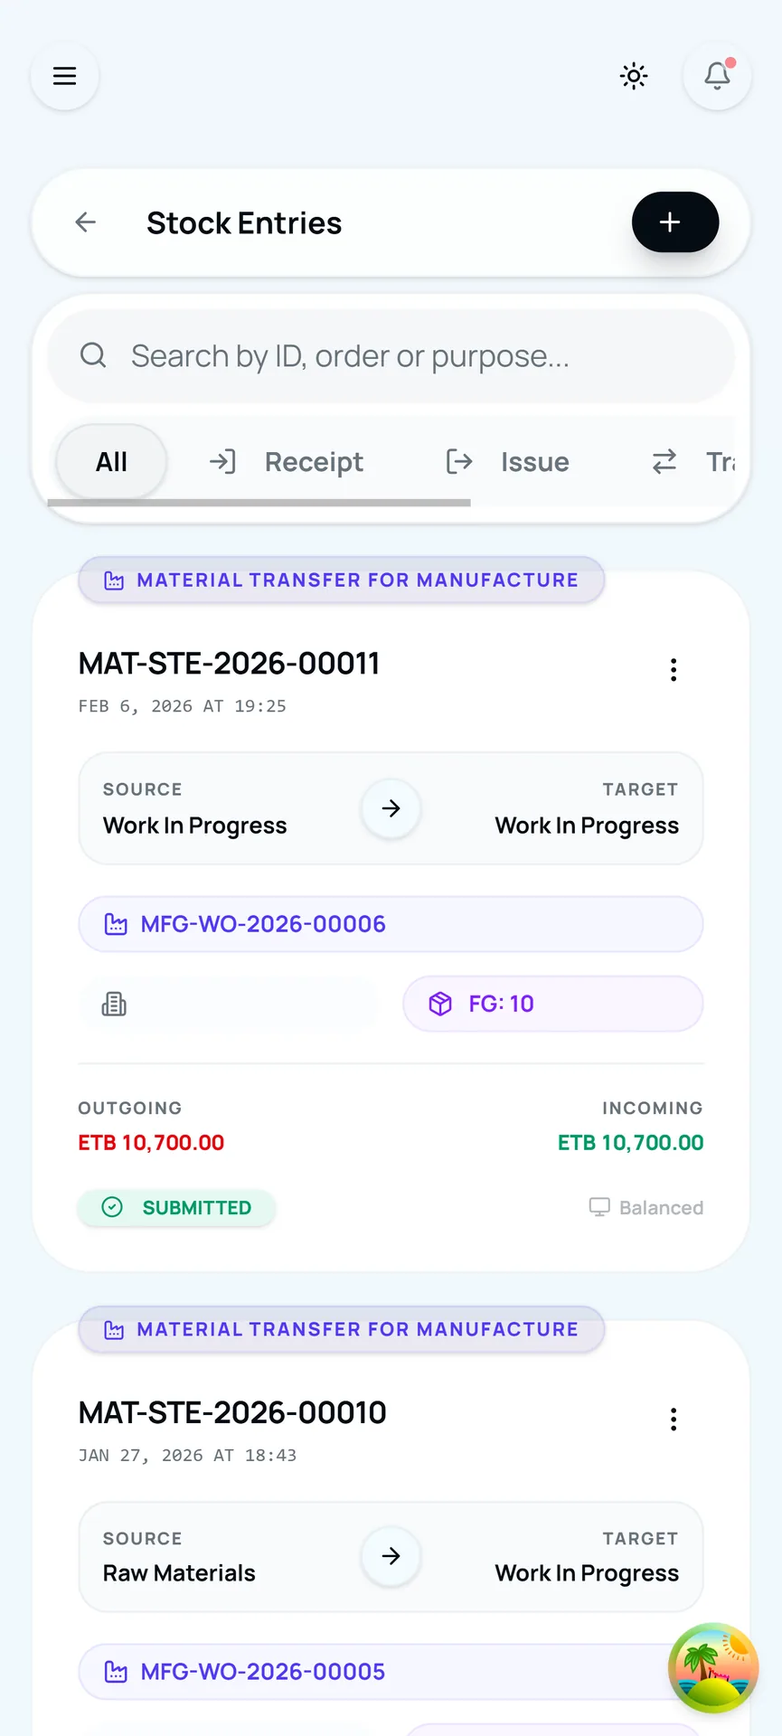
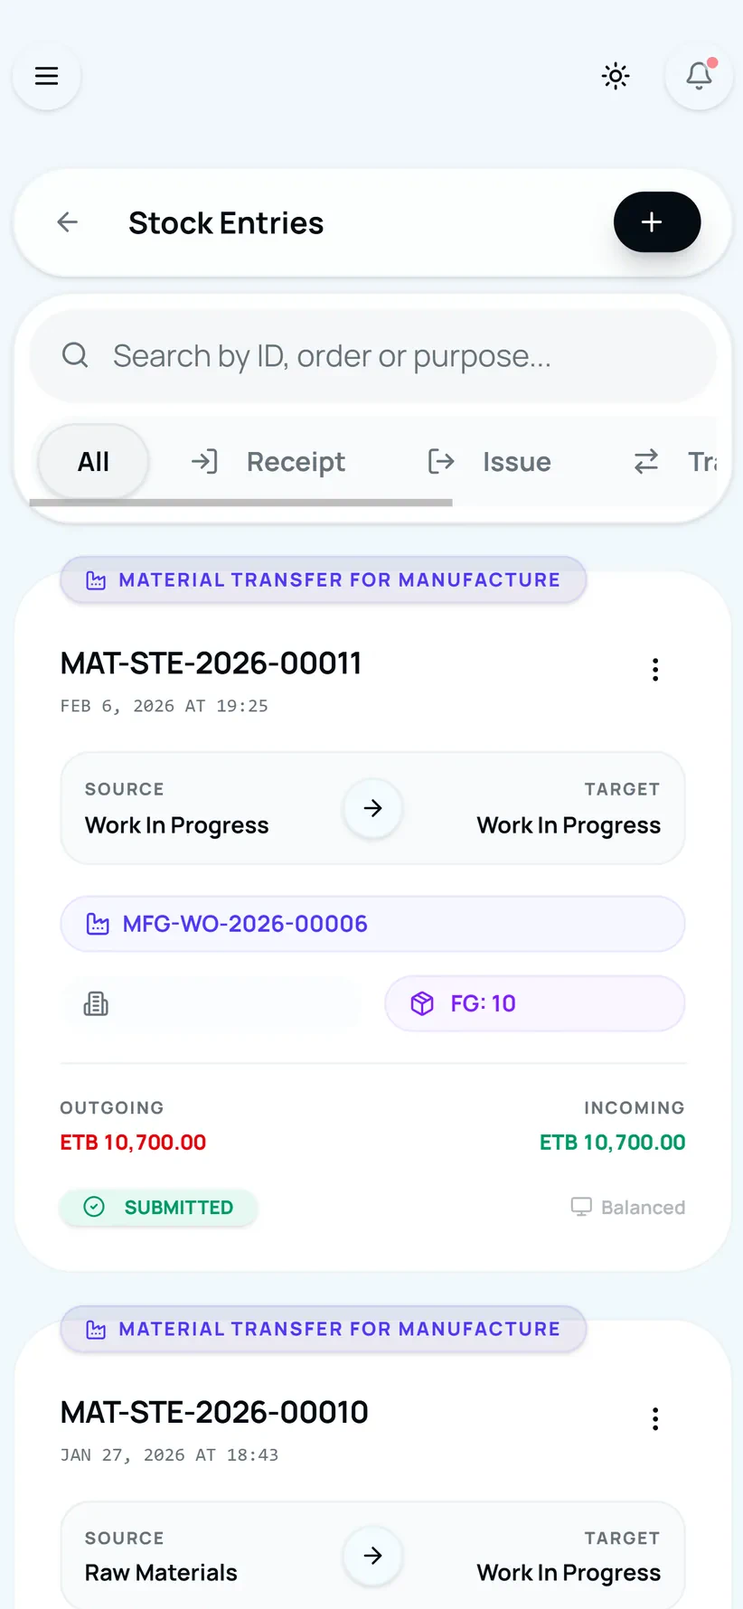
content: Obsidian ERP keeps only its cleared shots; it leads with phone screens
Kidus's decision of 2026-10-28: the live page showed a person's name, the
first client, the framework and invented figures beside them. Keep the
shots Media cleared by OCR and by eye, delete the other 45 files.

- Kept: mockup-03, -04, -06, -15, -16 and screen-01, -02, -10, -11, -12.
  Of the 12 cleared, mockup-09 and mockup-17 also go: a developer tool's
  floating badge shows on the phone screen in both.
- The five phone screens are cropped to the 9:19.5 phone outline (822x1780),
  which takes off the same badge at the bottom right.
- Cover: screen-11 (stock entries) in the phone outline. No straight desktop
  capture is clean, so no desktop lead and no feature images until v5.
- A phone-only product leads its page with three phone screens, its cover in
  the middle (the cover alone on a phone), and the flagship card shows the
  same three rising from a 16:9 stage.

diff --git a/src/content/projects/obsidian-erp.ts b/src/content/projects/obsidian-erp.ts
@@ -3,6 +3,12 @@ import { defineProject } from '../schema';
 // Version 4.4 (tag v4.4.0, 2026-09-20). The slug was obsidian-erp-v3.0 until
 // Phase B; next.config.ts redirects the old URL. The first client is not named
 // here until Kidus confirms it may be.
+//
+// Images: only the shots cleared on 2026-10-28 (checked by OCR and by eye: no
+// names, no client, no framework, no developer badge). Every straight desktop
+// capture shows a name, so the page leads with phone screens until the v5
+// screenshots exist. The phone screens are cropped to the 9:19.5 phone outline,
+// which also takes off a developer tool's floating badge at the bottom right.
 export default defineProject({
   slug: "obsidian-erp",
   title: "Obsidian ERP",
@@ -16,72 +22,27 @@ export default defineProject({
   industry: ["Manufacturing"],
   links: {},
   heroGradient: "from-violet-500/20 via-transparent to-indigo-500/10",
-  cover: "/images/obsidian-erp/screen-20.webp",
+  cover: "/images/obsidian-erp/screen-11.webp",
   gallery: [
-    { src: "/images/obsidian-erp/mockup-01.webp", alt: "Obsidian ERP quotation list with status filters on a phone, dark striped backdrop", kind: "mockup", width: 1920, height: 1280, reviewed: true },
-    { src: "/images/obsidian-erp/mockup-02.webp", alt: "Obsidian ERP sales order detail with artwork verification banner, close-up on an iMac", kind: "mockup", width: 1920, height: 1280, reviewed: true },
     { src: "/images/obsidian-erp/mockup-03.webp", alt: "Obsidian ERP printing operation profile with cost estimate in an angled browser window", kind: "mockup", width: 1920, height: 1280, reviewed: true },
     { src: "/images/obsidian-erp/mockup-04.webp", alt: "Obsidian ERP recent sales orders list, close-up on a phone screen", kind: "mockup", width: 1920, height: 1280, reviewed: true },
-    { src: "/images/obsidian-erp/mockup-05.webp", alt: "Obsidian ERP quotation cards grid on a laptop, cropped close-up", kind: "mockup", width: 1920, height: 1280, reviewed: true },
     { src: "/images/obsidian-erp/mockup-06.webp", alt: "Obsidian ERP chart of accounts hierarchy in an angled browser window", kind: "mockup", width: 1920, height: 1280, reviewed: true },
-    { src: "/images/obsidian-erp/mockup-07.webp", alt: "Obsidian ERP navigation menu with a section for each part of the business, close-up on a phone", kind: "mockup", width: 1920, height: 1280, reviewed: true },
-    { src: "/images/obsidian-erp/mockup-08.webp", alt: "Obsidian ERP command center dashboard with business performance figures on a laptop", kind: "mockup", width: 1920, height: 1280, reviewed: true },
-    { src: "/images/obsidian-erp/mockup-09.webp", alt: "Obsidian ERP summary cards for sales and stock, close-up on a phone", kind: "mockup", width: 1920, height: 1280, reviewed: true },
-    { src: "/images/obsidian-erp/mockup-10.webp", alt: "Obsidian ERP production work order with linked documents and cost figures on a phone", kind: "mockup", width: 1920, height: 1280, reviewed: true },
-    { src: "/images/obsidian-erp/mockup-11.webp", alt: "Obsidian ERP sales order detail page on an iMac, full desktop view", kind: "mockup", width: 1920, height: 1280, reviewed: true },
-    { src: "/images/obsidian-erp/mockup-12.webp", alt: "Obsidian ERP command center dashboard header, close-up on a phone", kind: "mockup", width: 1920, height: 1280, reviewed: true },
-    { src: "/images/obsidian-erp/mockup-13.webp", alt: "Obsidian ERP bill of materials with cost breakdown on an iMac, purple backdrop", kind: "mockup", width: 1920, height: 1280, reviewed: true },
-    { src: "/images/obsidian-erp/mockup-14.webp", alt: "Obsidian ERP bill of materials detail in a tilted browser window, striped backdrop", kind: "mockup", width: 1920, height: 1280, reviewed: true },
     { src: "/images/obsidian-erp/mockup-15.webp", alt: "Obsidian ERP chart of accounts summary counts, close-up on a phone", kind: "mockup", width: 1920, height: 1280, reviewed: true },
     { src: "/images/obsidian-erp/mockup-16.webp", alt: "Obsidian ERP HR departments list in a steeply angled browser window", kind: "mockup", width: 1920, height: 1280, reviewed: true },
-    { src: "/images/obsidian-erp/mockup-17.webp", alt: "Obsidian ERP workstation detail with hourly cost rates on a phone", kind: "mockup", width: 1920, height: 1280, reviewed: true },
-    { src: "/images/obsidian-erp/mockup-18.webp", alt: "Obsidian ERP sales overview dashboard with recent quotations in a browser window", kind: "mockup", width: 1920, height: 1280, reviewed: true },
-    { src: "/images/obsidian-erp/mockup-19.webp", alt: "Obsidian ERP command center dashboard on a tilted iMac between grey rock shapes", kind: "mockup", width: 1920, height: 1280, reviewed: true },
-    { src: "/images/obsidian-erp/mockup-20.webp", alt: "Obsidian ERP bill of materials page on a desktop monitor, pink and orange gradient", kind: "mockup", width: 1920, height: 1536, reviewed: true },
-    { src: "/images/obsidian-erp/mockup-21.webp", alt: "Obsidian ERP command center dashboard on an iMac, cropped close-up, silver backdrop", kind: "mockup", width: 1920, height: 1536, reviewed: true },
-    { src: "/images/obsidian-erp/mockup-22.webp", alt: "Obsidian ERP command center dashboard on an iMac, cropped close-up with teal glow", kind: "mockup", width: 1920, height: 1536, reviewed: true },
-    { src: "/images/obsidian-erp/mockup-23.webp", alt: "Obsidian ERP quotations grid on a desktop monitor, pink and orange gradient", kind: "mockup", width: 1920, height: 1536, reviewed: true },
-    { src: "/images/obsidian-erp/mockup-24.webp", alt: "Obsidian ERP command center dashboard on an iMac, full view, silver wave backdrop", kind: "mockup", width: 1920, height: 1536, reviewed: true },
-    { src: "/images/obsidian-erp/mockup-25.webp", alt: "Obsidian ERP quotations list in a browser window, cropped close-up", kind: "mockup", width: 1920, height: 1536, reviewed: true },
-    { src: "/images/obsidian-erp/screen-01.webp", alt: "Obsidian ERP summary cards for customers, sales and stock, mobile view", kind: "screen", width: 865, height: 1920, reviewed: true },
-    { src: "/images/obsidian-erp/screen-02.webp", alt: "Obsidian ERP chart of accounts with accounts grouped in a tree, mobile view", kind: "screen", width: 865, height: 1920, reviewed: true },
-    { src: "/images/obsidian-erp/screen-03.webp", alt: "Obsidian ERP recent sales orders list and register customer shortcut, mobile view", kind: "screen", width: 865, height: 1920, reviewed: true },
-    { src: "/images/obsidian-erp/screen-04.webp", alt: "Obsidian ERP production work order with linked documents and production figures, mobile view", kind: "screen", width: 865, height: 1920, reviewed: true },
-    { src: "/images/obsidian-erp/screen-05.webp", alt: "Obsidian ERP activity log of recent sales and stock entries, with a system status panel, mobile view", kind: "screen", width: 865, height: 1920, reviewed: true },
-    { src: "/images/obsidian-erp/screen-06.webp", alt: "Obsidian ERP side menu with a section for each part of the business, mobile view", kind: "screen", width: 865, height: 1920, reviewed: true },
-    { src: "/images/obsidian-erp/screen-08.webp", alt: "Obsidian ERP quotations list with status filters and expired badges, mobile view", kind: "screen", width: 865, height: 1920, reviewed: true },
-    { src: "/images/obsidian-erp/screen-10.webp", alt: "Obsidian ERP delivery note with delivered items and customer details, mobile view", kind: "screen", width: 865, height: 1920, reviewed: true },
-    { src: "/images/obsidian-erp/screen-11.webp", alt: "Obsidian ERP stock entries list with material transfer cards, mobile view", kind: "screen", width: 865, height: 1920, reviewed: true },
-    { src: "/images/obsidian-erp/screen-12.webp", alt: "Obsidian ERP workstation detail with machine identity and cost rates, mobile view", kind: "screen", width: 865, height: 1920, reviewed: true },
-    { src: "/images/obsidian-erp/screen-13.webp", alt: "Obsidian ERP command center dashboard with summary stats, mobile view", kind: "screen", width: 865, height: 1920, reviewed: true },
-    { src: "/images/obsidian-erp/screen-14.webp", alt: "Obsidian ERP command center dashboard with revenue, leads, stock value and business areas, desktop view", kind: "screen", width: 1920, height: 1080, reviewed: true },
-    { src: "/images/obsidian-erp/screen-15.webp", alt: "Obsidian ERP quotations grid with status filters, desktop view", kind: "screen", width: 1920, height: 1080, reviewed: true },
-    { src: "/images/obsidian-erp/screen-16.webp", alt: "Obsidian ERP bill of materials with raw materials, operations and cost breakdown, desktop view", kind: "screen", width: 1920, height: 1080, reviewed: true },
-    { src: "/images/obsidian-erp/screen-17.webp", alt: "Obsidian ERP material transfer stock entry with source and target locations, desktop view", kind: "screen", width: 1920, height: 1080, reviewed: true },
-    { src: "/images/obsidian-erp/screen-18.webp", alt: "Obsidian ERP sales order detail with artwork verification and specification table, desktop view", kind: "screen", width: 1920, height: 1080, reviewed: true },
-    { src: "/images/obsidian-erp/screen-19.webp", alt: "Obsidian ERP sales overview dashboard with recent quotations and orders, desktop view", kind: "screen", width: 1920, height: 1080, reviewed: true },
-    { src: "/images/obsidian-erp/screen-20.webp", alt: "Obsidian ERP chart of accounts with expandable account hierarchy, desktop view", kind: "screen", width: 1920, height: 1080, reviewed: true },
-    { src: "/images/obsidian-erp/screen-21.webp", alt: "Obsidian ERP manufacturing work order with required materials and operations, desktop view", kind: "screen", width: 1920, height: 1080, reviewed: true },
-    { src: "/images/obsidian-erp/screen-22.webp", alt: "Obsidian ERP sales overview with summary cards and recent activity lists, desktop view", kind: "screen", width: 1920, height: 1080, reviewed: true },
-    { src: "/images/obsidian-erp/screen-23.webp", alt: "Obsidian ERP stock entries board with receipt and transfer cards, desktop view", kind: "screen", width: 1920, height: 1080, reviewed: true },
-    { src: "/images/obsidian-erp/screen-24.webp", alt: "Obsidian ERP stock transfer detail with the items moved, their value and the date it was recorded, desktop view", kind: "screen", width: 1920, height: 1080, reviewed: true },
-    { src: "/images/obsidian-erp/screen-25.webp", alt: "Obsidian ERP bill of materials for business cards with recipe insights, desktop view", kind: "screen", width: 1920, height: 1080, reviewed: true },
-    { src: "/images/obsidian-erp/screen-26.webp", alt: "Obsidian ERP printing operation profile with a standard cost estimate and its steps, desktop view", kind: "screen", width: 1920, height: 1080, reviewed: true },
-    { src: "/images/obsidian-erp/screen-28.webp", alt: "Obsidian ERP HR departments list with add department button, desktop view", kind: "screen", width: 1920, height: 1080, reviewed: true },
-    { src: "/images/obsidian-erp/screen-29.webp", alt: "Obsidian ERP modes of payment cards for cash, cheque and transfers, desktop view", kind: "screen", width: 1920, height: 1080, reviewed: true },
-    { src: "/images/obsidian-erp/screen-30.webp", alt: "Obsidian ERP chart of accounts scrolled to expense and income groups, desktop view", kind: "screen", width: 1920, height: 1080, reviewed: true },
-    { src: "/images/obsidian-erp/screen-31.webp", alt: "Obsidian ERP sales settings for taxes, terms and sales partners, desktop view", kind: "screen", width: 1920, height: 1080, reviewed: true },
-    { src: "/images/obsidian-erp/screen-32.webp", alt: "Obsidian ERP delivery note with delivered items and shipping details, desktop view", kind: "screen", width: 1920, height: 1080, reviewed: true },
-    { src: "/images/obsidian-erp/screen-33.webp", alt: "Obsidian ERP command center intro with quick actions and stat tiles, mobile view, close crop", kind: "screen", width: 1009, height: 1920, reviewed: true },
+    { src: "/images/obsidian-erp/screen-11.webp", alt: "Obsidian ERP stock entries list with material transfer cards, mobile view", kind: "screen", width: 822, height: 1780, reviewed: true },
+    { src: "/images/obsidian-erp/screen-02.webp", alt: "Obsidian ERP chart of accounts with accounts grouped in a tree, mobile view", kind: "screen", width: 822, height: 1780, reviewed: true },
+    { src: "/images/obsidian-erp/screen-12.webp", alt: "Obsidian ERP workstation detail with machine identity and cost rates, mobile view", kind: "screen", width: 822, height: 1780, reviewed: true },
+    { src: "/images/obsidian-erp/screen-10.webp", alt: "Obsidian ERP delivery note with delivered items and customer details, mobile view", kind: "screen", width: 822, height: 1780, reviewed: true },
+    { src: "/images/obsidian-erp/screen-01.webp", alt: "Obsidian ERP summary cards for customers, sales and stock, mobile view", kind: "screen", width: 822, height: 1780, reviewed: true },
   ],
 
   description: "Obsidian takes you from quote to order, production, delivery, invoice and payment, and updates your buying, stock and accounts at every step. Every document shows where it came from and what to do next, and a guided setup gets a new company running. We first built it in 2025 for a client's business, and it became our own product in 2026.",
   need: "Many growing companies run sales, stock, production and accounts in separate spreadsheets and tools. Prices go wrong, stock runs out, and invoices go out late.",
   audience: "Growing companies, manufacturers especially, that have outgrown spreadsheets. It suits teams that quote, sell, buy, make and deliver goods and want one record of all of it.",
   features: [
-    { title: "Go From Quote to Cash in a Few Clicks", image: "/images/obsidian-erp/screen-32.webp", description: "Turn a quote into an order, then deliver, invoice and record the payment with one click each." },
+    { title: "Go From Quote to Cash in a Few Clicks", description: "Turn a quote into an order, then deliver, invoice and record the payment with one click each." },
     { title: "See Every Step of a Deal", description: "Every document shows where it came from and what comes next, so nothing gets lost." },
-    { title: "Run Production Without the Paperwork", image: "/images/obsidian-erp/screen-26.webp", description: "Start and finish jobs in one click, and your stock and job cards update for you." },
+    { title: "Run Production Without the Paperwork", description: "Start and finish jobs in one click, and your stock and job cards update for you." },
     { title: "Order What You're Short Of", description: "Spot missing stock and raise purchase orders to each item's usual supplier." },
     { title: "Know Your Numbers at a Glance", description: "See profit and loss, the balance sheet, money owed, sales and stock in one place." },
     { title: "Give Everyone the Right Access", description: "Each person sees and does only what their role allows." },

diff --git a/src/components/case-study/CaseStudy.tsx b/src/components/case-study/CaseStudy.tsx
@@ -4,7 +4,7 @@ import type { Feature, GalleryImage, Project } from '@/content/schema';
 import { projectPath, type ProjectCard } from '@/content/projects';
 import { AVAILABILITY, callToAction, type CallToAction } from '@/content/labels';
 import { SITE_NAME, SITE_URL } from '@/lib/site';
-import { galleryRest, leadShots } from '@/lib/shots';
+import { galleryRest, isPhoneScreen, leadShots } from '@/lib/shots';
 import { Reveal } from '@/components/ui/motion';
 import ProductShot, { ShotPanel, ShotPlaceholder } from '@/components/ui/ProductShot';
 import { KindBadge, StatusBadge } from '@/components/ui/Badge';
@@ -75,10 +75,12 @@ function SectionTitle({ id, eyebrow, title }: { id: string; eyebrow: string; tit
 }
 
 // The screenshot that leads the page, in its frame on a surface panel, with
-// the same page on a phone beside it when there is one. A product with no
-// screenshots yet shows its name, status and availability in the frame.
-function LeadShot({ project, desktop, phone }: { project: Project; desktop?: GalleryImage; phone?: GalleryImage }) {
-  if (!desktop) {
+// the same page on a phone beside it when there is one. A product shown only
+// on phones leads with three phone screens, its cover in the middle (one on a
+// phone). A product with no screenshots yet shows its name, status and
+// availability in the frame.
+function LeadShot({ project, lead, beside }: { project: Project; lead?: GalleryImage; beside: GalleryImage[] }) {
+  if (!lead) {
     if (project.section !== 'products') return null;
     return (
       <ShotPanel>
@@ -91,17 +93,31 @@ function LeadShot({ project, desktop, phone }: { project: Project; desktop?: Gal
       </ShotPanel>
     );
   }
+  if (isPhoneScreen(lead)) {
+    const [left, right] = beside;
+    const side = 'hidden w-full max-w-[260px] md:block';
+    return (
+      <ShotPanel>
+        <div className="flex items-start justify-center gap-10">
+          {left && <ProductShot image={left} sizes="260px" className={side} />}
+          <ProductShot image={lead} sizes="(max-width: 768px) 280px, 260px" priority className="w-full max-w-[280px] md:max-w-[260px]" />
+          {right && <ProductShot image={right} sizes="260px" className={side} />}
+        </div>
+      </ShotPanel>
+    );
+  }
+  const [phone] = beside;
   if (!phone) {
     return (
       <ShotPanel>
-        <ProductShot image={desktop} sizes="(max-width: 1248px) calc(100vw - 64px), 1120px" priority />
+        <ProductShot image={lead} sizes="(max-width: 1248px) calc(100vw - 64px), 1120px" priority />
       </ShotPanel>
     );
   }
   return (
     <ShotPanel>
       <div className="grid items-end gap-6 md:grid-cols-[minmax(0,1fr)_minmax(0,0.3fr)] md:gap-8">
-        <ProductShot image={desktop} sizes="(max-width: 768px) calc(100vw - 64px), (max-width: 1248px) 72vw, 860px" priority />
+        <ProductShot image={lead} sizes="(max-width: 768px) calc(100vw - 64px), (max-width: 1248px) 72vw, 860px" priority />
         <ProductShot image={phone} sizes="260px" className="mx-auto hidden w-full max-w-[260px] md:block" />
       </div>
     </ShotPanel>
@@ -237,8 +253,8 @@ export default function CaseStudy({ project, related }: { project: Project; rela
   const path = projectPath(project);
   const cta = callToAction(project);
   const cover = project.cover ? project.gallery.find((image) => image.src === project.cover) : undefined;
-  const { desktop, phone } = leadShots(project);
-  const rest = galleryRest(project, [desktop, phone]);
+  const { lead, beside } = leadShots(project);
+  const rest = galleryRest(project, [lead, ...beside]);
 
   // Client work links to the client's live site; a demo link on a product is
   // the call to action itself, so it isn't repeated here.
@@ -307,9 +323,9 @@ export default function CaseStudy({ project, related }: { project: Project; rela
           </div>
         </div>
 
-        {(desktop || isProduct) && (
+        {(lead || isProduct) && (
           <div className={`${CONTAINER} mt-12 md:mt-16`}>
-            <LeadShot project={project} desktop={desktop} phone={phone} />
+            <LeadShot project={project} lead={lead} beside={beside} />
           </div>
         )}
       </header>

diff --git a/src/components/sections/ProductBento.tsx b/src/components/sections/ProductBento.tsx
@@ -1,7 +1,8 @@
 import Link from 'next/link';
 import { ArrowUpRight } from 'lucide-react';
 import type { ProjectCard } from '@/content/projects';
-import ProductShot, { ShotPlaceholder } from '@/components/ui/ProductShot';
+import type { GalleryImage } from '@/content/schema';
+import ProductShot, { isPortrait, ShotPlaceholder } from '@/components/ui/ProductShot';
 import { StatusBadge } from '@/components/ui/Badge';
 import { CARD_LINK } from '@/components/ui/styles';
 import { CardMedia } from '@/components/case-study/ProjectCardView';
@@ -25,13 +26,40 @@ function Title({ product, as: Heading }: { product: ProjectCard; as: 'h2' | 'h3'
   );
 }
 
+// A product shown only on phones: its cover between two more phone screens,
+// rising from the bottom of a fixed 16:9 stage.
+function PhoneStage({ cover, phones, lead }: { cover: GalleryImage; phones: GalleryImage[]; lead: 'priority' | 'eager' }) {
+  const [left, right] = phones;
+  const sizes = '(max-width: 1024px) 28vw, 210px';
+  const phone = 'w-[28%] shrink-0';
+  return (
+    <div className="relative aspect-[16/9] overflow-hidden rounded-xl border border-border bg-background">
+      <div className="absolute inset-x-0 top-6 flex justify-center gap-[5%] sm:top-10">
+        {left && <ProductShot image={left} alt="" sizes={sizes} eager className={phone} />}
+        <ProductShot
+          image={cover}
+          alt=""
+          sizes={sizes}
+          priority={lead === 'priority'}
+          eager={lead === 'eager'}
+          className={phone}
+        />
+        {right && <ProductShot image={right} alt="" sizes={sizes} eager className={phone} />}
+      </div>
+    </div>
+  );
+}
+
 function Flagship({ product, as, lead }: { product: ProjectCard; as: 'h2' | 'h3'; lead: 'priority' | 'eager' }) {
+  const cover = product.cover;
   return (
     <Link href={product.href} className={`${CARD_LINK} grid gap-8 p-5 sm:p-6 md:p-10 lg:grid-cols-12 lg:items-center lg:gap-10`}>
       <div className="lg:order-2 lg:col-span-8">
-        {product.cover ? (
+        {cover && isPortrait(cover) ? (
+          <PhoneStage cover={cover} phones={product.coverPhones} lead={lead} />
+        ) : cover ? (
           <ProductShot
-            image={product.cover}
+            image={cover}
             alt=""
             sizes="(max-width: 1024px) calc(100vw - 90px), 740px"
             priority={lead === 'priority'}

diff --git a/src/lib/shots.ts b/src/lib/shots.ts
@@ -4,17 +4,32 @@ import type { GalleryImage, Project } from '@/content/schema';
 // image shows twice.
 //
 // The lead shot is the project's cover (a straight screenshot where one
-// exists), or its first desktop screenshot. A desktop capture named
-// screen-<page>-desktop is paired with screen-<page>-mobile when the project has
-// it: the same page on a phone, shown beside it.
-export function leadShots(project: Project): { desktop?: GalleryImage; phone?: GalleryImage } {
+// exists), or its first desktop screenshot. What stands beside it:
+// - a desktop capture named screen-<page>-desktop: screen-<page>-mobile when the
+//   project has it, the same page on a phone;
+// - a phone screen (a product shown only on phones): the next two phone
+//   screens, so the lead reads as a product rather than one small screen.
+export function leadShots(project: Project): { lead?: GalleryImage; beside: GalleryImage[] } {
   const find = (src?: string) => (src ? project.gallery.find((image) => image.src === src) : undefined);
-  const desktop =
+  const lead =
     find(project.cover) ??
     project.gallery.find((image) => image.kind === 'screen' && image.width > image.height) ??
     project.gallery.find((image) => image.kind === 'mockup');
-  const phone = desktop && /-desktop\.webp$/.test(desktop.src) ? find(desktop.src.replace(/-desktop\.webp$/, '-mobile.webp')) : undefined;
-  return { desktop, phone };
+  if (!lead) return { beside: [] };
+
+  if (isPhoneScreen(lead)) {
+    const featured = new Set(project.features.map((feature) => feature.image));
+    const phones = project.gallery.filter(
+      (image) => isPhoneScreen(image) && image.src !== lead.src && !featured.has(image.src),
+    );
+    return { lead, beside: phones.slice(0, 2) };
+  }
+  const twin = /-desktop\.webp$/.test(lead.src) ? find(lead.src.replace(/-desktop\.webp$/, '-mobile.webp')) : undefined;
+  return { lead, beside: twin ? [twin] : [] };
+}
+
+export function isPhoneScreen(image: GalleryImage) {
+  return image.kind === 'screen' && image.height > image.width;
 }
 
 // The gallery: everything not already shown at the top of the page or beside a feature.

diff --git a/src/content/projects/index.ts b/src/content/projects/index.ts
@@ -1,6 +1,7 @@
 import { z } from 'zod';
 import { projectSchema, type GalleryImage, type Project, type ProjectInput, type ProjectSection } from '../schema';
 import { findBannedTerms } from '../plain-language';
+import { isPhoneScreen, leadShots } from '../../lib/shots';
 import obsidianErp from './obsidian-erp';
 import safeframe from './safeframe';
 import printonlineEt from './printonline-et';
@@ -134,6 +135,14 @@ export interface ProjectCard {
   client?: string;
   heroGradient: string;
   cover?: GalleryImage;
+  // A product shown only on phones: the phone screens that stand beside its
+  // phone cover (see src/lib/shots.ts). Empty for every other cover.
+  coverPhones: GalleryImage[];
+}
+
+function leadPhones(project: Project): GalleryImage[] {
+  const { lead, beside } = leadShots(project);
+  return lead && isPhoneScreen(lead) && lead.src === project.cover ? beside : [];
 }
 
 export function toCard(project: Project): ProjectCard {
@@ -153,5 +162,6 @@ export function toCard(project: Project): ProjectCard {
     client: project.client,
     heroGradient: project.heroGradient,
     cover: project.cover ? getImage(project, project.cover) : undefined,
+    coverPhones: leadPhones(project),
   };
 }
